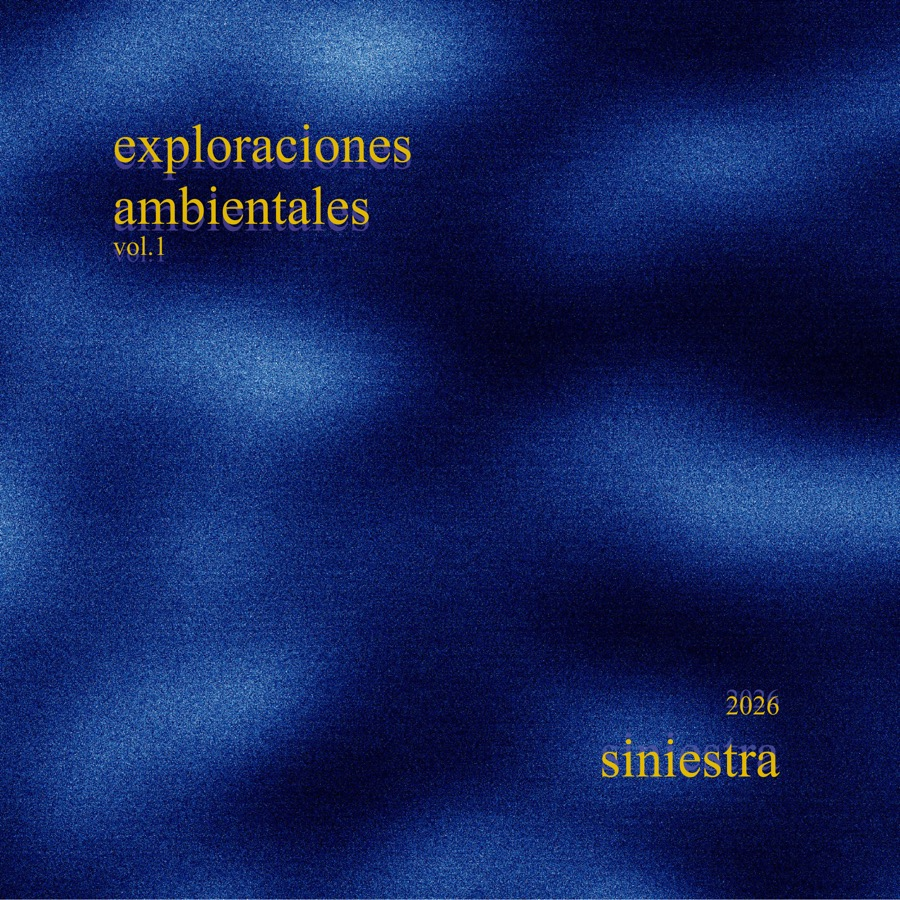
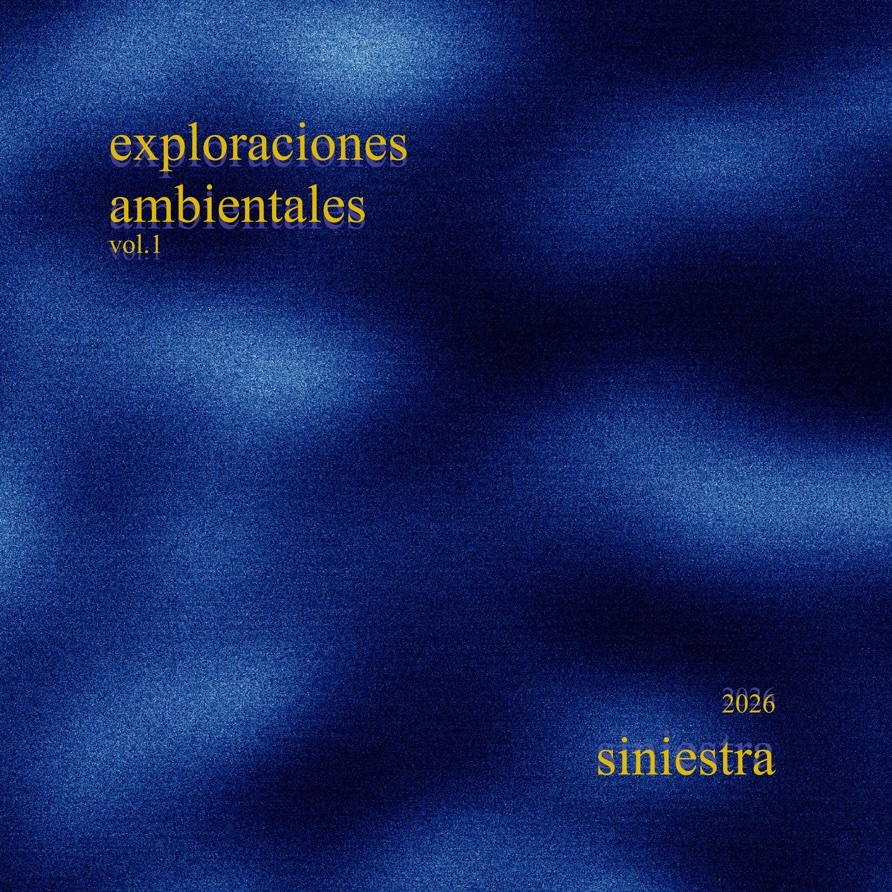
feat(main-site): agregar Gölden Acapulco, querryqueen y nueva portada de siniestra

diff --git a/_data/obra.js b/_data/obra.js
@@ -1,5 +1,5 @@
 // Proyectos musicales. La música ya no se reproduce ni se vende acá: vive en
-// musica.aebn.cl (la app de la cooperativa) y en las plataformas de streaming.
+// musica.tecnocooperativa.cl (la app de la cooperativa) y en las plataformas de streaming.
 module.exports = {
   // Audios publicados en la audioteca de la cooperativa.
   audios: [
@@ -20,13 +20,13 @@ module.exports = {
       slug: "siniestra",
       nombre: "siniestra",
       obra: "Exploraciones ambientales",
-      formato: "EP",
+      formato: "Álbum",
       genero: "Ambient",
       anio: 2026,
       descripcion: "Música ambiental electrónica: texturas largas, ruido y paisaje.",
       portada: "/static/imagenes/musica/siniestra-cover.jpg",
       enlaces: [
-        { nombre: "Escuchar en Música", url: "https://musica.aebn.cl", principal: true },
+        { nombre: "Escuchar en Música", url: "https://musica.tecnocooperativa.cl", principal: true },
         { nombre: "Apple Music", url: "https://music.apple.com/us/album/exploraciones-ambientales-ep/6795013701" },
         { nombre: "YouTube", url: "https://www.youtube.com/@msiniestra" },
       ],
@@ -41,7 +41,33 @@ module.exports = {
       descripcion: "Canciones con guitarra de palo.",
       portada: "/static/imagenes/musica/male-cover.jpg",
       enlaces: [
-        { nombre: "Escuchar en Música", url: "https://musica.aebn.cl", principal: true },
+        { nombre: "Escuchar en Música", url: "https://musica.tecnocooperativa.cl", principal: true },
+      ],
+    },
+    {
+      slug: "querryqueen",
+      nombre: "querryqueen",
+      obra: "Hola a nadie el mundo",
+      formato: "Álbum",
+      anio: 2017,
+      descripcion: "Canciones de querryqueen.",
+      portada: "/static/imagenes/musica/querryqueen-cover.jpg",
+      enlaces: [
+        { nombre: "Escuchar en Música", url: "https://musica.tecnocooperativa.cl", principal: true },
+        { nombre: "YouTube", url: "https://www.youtube.com/@querryqueen2511" },
+      ],
+    },
+    {
+      slug: "golden-acapulco",
+      nombre: "Gölden Acapulco",
+      obra: "El gran viaje",
+      formato: "Sencillo",
+      anio: 2016,
+      descripcion: "Canciones de Gölden Acapulco.",
+      portada: "/static/imagenes/musica/golden-acapulco-cover.jpg",
+      enlaces: [
+        { nombre: "Escuchar en Música", url: "https://musica.tecnocooperativa.cl", principal: true },
+        { nombre: "SoundCloud", url: "https://soundcloud.com/dimensionacapulco" },
       ],
     },
   ],

diff --git a/obra.html b/obra.html
@@ -1,7 +1,7 @@
 ---
 layout: layouts/base.html
 title: "Obras"
-description: "Música de Alejandro Bustos Núñez (siniestra, male), audios y, pronto, cuentos."
+description: "Música de Alejandro Bustos Núñez (siniestra, male, Gölden Acapulco, querryqueen), audios y, pronto, cuentos."
 navActiva: obra
 ---
 
@@ -9,13 +9,13 @@ navActiva: obra
 
 <section class="bloque" id="musica" aria-labelledby="titulo-musica">
   <h2 class="bloque-titulo" id="titulo-musica">Música</h2>
-  <p class="bloque-bajada">Dos proyectos, dos registros. La música se escucha en <a href="https://musica.aebn.cl" target="_blank" rel="noopener">Música</a>, el reproductor de la cooperativa, donde cada artista publica desde su propio Pod.</p>
+  <p class="bloque-bajada">Cuatro proyectos, cuatro registros. La música se escucha en <a href="https://musica.tecnocooperativa.cl" target="_blank" rel="noopener">Música</a>, el reproductor de la cooperativa, donde cada artista publica desde su propio Pod.</p>
 
   <div class="discos">
     {%- for disco in obra.musica %}
     <article class="disco" id="{{ disco.slug }}">
       <img class="disco-portada" src="{{ disco.portada }}" alt="Portada de {{ disco.obra }}, de {{ disco.nombre }}">
-      <span class="rotulo">{{ disco.formato }} · {{ disco.genero }} · {{ disco.anio }}</span>
+      <span class="rotulo">{{ disco.formato }}{% if disco.anio %} · {{ disco.anio }}{% endif %}</span>
       <h3 class="disco-nombre">{{ disco.nombre }}</h3>
       <p class="disco-obra">{{ disco.obra }}</p>
       <p class="disco-desc">{{ disco.descripcion }}</p>

diff --git a/index.html b/index.html
@@ -88,7 +88,7 @@ navActiva: inicio
     {%- for disco in obra.musica %}
     <a class="disco" href="/obra/#{{ disco.slug }}">
       <img class="disco-portada" src="{{ disco.portada }}" alt="" loading="lazy">
-      <span class="rotulo">{{ disco.formato }} · {{ disco.anio }}</span>
+      <span class="rotulo">{{ disco.formato }}{% if disco.anio %} · {{ disco.anio }}{% endif %}</span>
       <span class="disco-nombre">{{ disco.nombre }}</span>
       <span class="disco-obra">{{ disco.obra }}</span>
     </a>

diff --git a/_data/redirecciones.js b/_data/redirecciones.js
@@ -1,6 +1,6 @@
 // URLs que dejaron de existir con el rediseño de noviembre de 2026 (la
 // Bitácora se repartió en Investigación y Proyectos; la música se fue a
-// musica.aebn.cl). GitHub Pages es estático, así que cada una se publica como
+// musica.tecnocooperativa.cl). GitHub Pages es estático, así que cada una se publica como
 // una página mínima que redirige; ver redirecciones.liquid.
 module.exports = [
   // Entradas publicadas de la Bitácora

diff --git a/CHANGELOG.md b/CHANGELOG.md
@@ -1,4 +1,4 @@
-## 2.0.0 (2026-11-13)
+## 2.0.0 (2026-11-14)
 
 * feat: add CC ([044bc75](https://github.com/newale/newale.github.io/commit/044bc75))
 * feat: add description to naguara and fix footer ([6f4acf0](https://github.com/newale/newale.github.io/commit/6f4acf0))
@@ -93,7 +93,8 @@
 * feat: updates to light theme ([6055d9e](https://github.com/newale/newale.github.io/commit/6055d9e))
 * feat: upload naguara ([3605deb](https://github.com/newale/newale.github.io/commit/3605deb))
 * feat(main-site): added dashboard app ([64afc1b](https://github.com/newale/newale.github.io/commit/64afc1b))
-* feat(main-site): colecciones, proyecto principal y nuevas entradas ([07d2ae4](https://github.com/newale/newale.github.io/commit/07d2ae4))
+* feat(main-site): agregar Gölden Acapulco, querryqueen y nueva portada de siniestra ([46670e7](https://github.com/newale/newale.github.io/commit/46670e7))
+* feat(main-site): colecciones, proyecto principal y nuevas entradas ([9bec0c4](https://github.com/newale/newale.github.io/commit/9bec0c4))
 * feat(main-site): rediseño de portada, tokens tipográficos y secciones ([a4ca924](https://github.com/newale/newale.github.io/commit/a4ca924))
 * add analytics ([33a523f](https://github.com/newale/newale.github.io/commit/33a523f))
 * Add theme and first post ([da18102](https://github.com/newale/newale.github.io/commit/da18102))

diff --git a/proyectos/tecnocoop.md b/proyectos/tecnocoop.md
@@ -36,7 +36,7 @@ La cooperativa todavía no está constituida legalmente, pero la tecnología ya 
 
 espacio es la pieza que lo junta todo. Inicias sesión con tu WebID, se conecta a tu pod, y desde ahí abres aplicaciones que leen y guardan en tu pod, no en los servidores de cada aplicación. Cada una solo puede tocar su propia carpeta. Si mañana dejas de usar una aplicación, tus datos siguen ahí.
 
-Trae aplicaciones propias —Archivos, escribir, Estudio para publicar música— y un catálogo de aplicaciones web que se abren adentro: [Notas](https://notas.aebn.cl), [Archivador](https://archivador.aebn.cl), [Música](https://musica.aebn.cl) y [Por hacer](https://por-hacer.aebn.cl). Están todas en la [organización de la Tecnocooperativa en GitHub](https://github.com/tecnocoopcl).
+Trae aplicaciones propias —Archivos, escribir, Estudio para publicar música— y un catálogo de aplicaciones web que se abren adentro: [Notas](https://notas.aebn.cl), [Archivador](https://archivador.aebn.cl), [Música](https://musica.tecnocooperativa.cl) y [Por hacer](https://por-hacer.aebn.cl). Están todas en la [organización de la Tecnocooperativa en GitHub](https://github.com/tecnocoopcl).
 
 ## En qué etapa estamos
 
